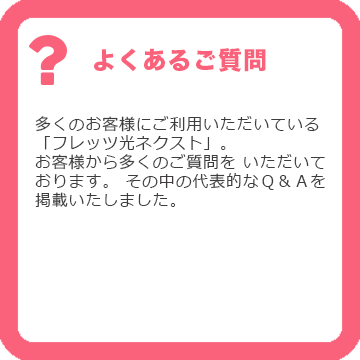
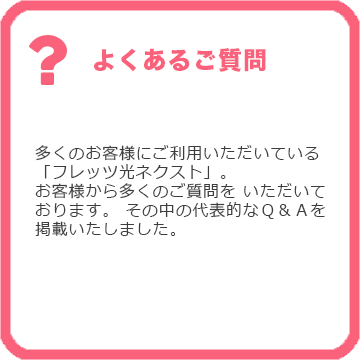
161031修正分

Changed region(s): [[0.0917, 0.3056, 0.9167, 0.6722], [0.0, 0.0, 1.0, 1.0]]

diff --git a/index.html b/index.html
@@ -96,7 +96,7 @@ $(function() {
 </div>
 <div class="content1">
   <div class="main_box">
-  <img src="images/tokuten1.jpg" alt="最大28,000円キャッシュバック！！" class="tokuten01">
+  <img src="images/tokuten2.png" alt="最大28,000円キャッシュバック！！" class="tokuten01">
   <div class="tokuten02">
   <div class="tokuten03">
   <p>平成25年10月1日(火)～平成26年1月31日(金)までに、フレッツ光ネクストをお申込みいただくと<font color="#FF3300">
@@ -113,7 +113,7 @@ $(function() {
     <div class="main_box2">
       <img src="images/cashback01.png" alt="フレッツ光 ＋ひかり電話A（エース）＋プロバイダ OCN「フレッツ」" class="hyou1">
       <img src="images/cashback02.png" alt="フレッツ光 ＋ひかり電話A（エース）" class="hyou2">
-      <img src="images/cashback03.png" alt="フレッツ光）" class="hyou3">
+      <img src="images/cashback03.png" alt="フレッツ光" class="hyou3">
       <p class="main_boxtext"><strong class="color3">【対象者】</strong> 「フレッツ光ネクスト」を新規申込みのお客さま全員がプレゼントの対象となります。</p>
       <p class="main_boxtext"><strong class="color3">【条件】</strong> 平成25年10月1日～平成26年3月31日に「フレッツ光ネクスト」を本ページから新規に申し込みされ、
         平成26年6月30日までに利用開始されていることが条件となります。（「Ｂフレッツ」または、「フレッツ光プレミアム」から、「フレッツ光ネクスト」への変更の場合や、
@@ -139,41 +139,6 @@ $(function() {
     <img src="images/syousai03.png" alt="開通後のお問い合わせ"class="syousai03">
     <img src="images/syousai04.png" alt="サービス内容" class="syousai04">
   </div>
-<!--
-  <div class="main3_boxback">
-    <div class="main3_box1">
-      <img src="images/new/mark1.png" alt="サービス内容" class="mark1">
-      <p class="main_boxtext2">
-        「フレッツ光ネクスト」は、通信料定額で最大200Mbpsの超高速サービスです！
-        お気に入りのプロバイダもそのまま、ご利用いただけます。 また、オプションの「ひかり電話」を併せてご利用することで、今お使いの電話番号がそのまま使えるだけでなく、
-        固定電話相当の音声品質とお得な通話料金、緊急通報等の通話が可能など、様々なサービスをご提供いたします。
-      </p>
-
-    </div>
-    <div class="main3_box2">
-      <img src="images/new/mark2.png" alt="月額利用料／初期費用" class="mark2">
-      <p class="main_boxtext2">
-      	豊富なメニューから、ぴったりのサービスをご選択いただけます。
-        200Mbpsの高速接続がファミリー・ハイスピードタイプなら4,970円、マンション・ハイスピードタイプなら2,790円とお手軽な価格設定です。
-      </p>
-    </div>
-    <div class="clear"></div>
-    <div class="main3_box3">
-      <img src="images/new/mark3.png" alt="よくあるご質問" class="mark3">
-      <p class="main_boxtext2">
-        多くのお客様にご利用いただいている「フレッツ光ネクスト」。
-        お客様から多くのご質問を いただいております。 その中の代表的なＱ＆Ａを掲載いたしました。
-      </p>
-    </div>
-    <div class="main3_box4">
-      <img src="images/new/mark4.png" alt="開通後のお問い合わせ" class="mark4">
-      <p class="main_boxtext2">
-      	通信速度、故障、技術、 パソコンの接続設定などに関するお問い合わせ先など。
-        「フレッツ光ネクスト」なら開通後も24時間365 受付でサポート万全です。( ※開通されたユーザー様向けのお問合せ先となっております。)</p>
-    </div>
-    <div class="clear"></div>
-  </div>
--->
     <div class="btn_box">
       <a href="inquiry/index.html"><img src="images/btn.png" alt="お申込み・お問い合わせ" /></a>
     </div>
@@ -306,9 +271,9 @@ $(function() {
             ご利用の開始のご連絡をいただいた翌月末にお振込みいたします。</p>
         </div>
       </div>
-      <div class="btn_box">
-        <a href="inquiry/index.html"><img src="images/btn.png" alt="お申込み・お問い合わせ" /></a>
-      </div>
+    </div>
+    <div class="btn_box">
+      <a href="inquiry/index.html"><img src="images/btn.png" alt="お申込み・お問い合わせ" /></a>
     </div>
   </div>
 </div>

diff --git a/css/style.css b/css/style.css
@@ -124,11 +124,11 @@ body {
   width:60%;
   margin-left: auto;
   margin-right: auto;
-  margin-bottom:20px;
-  margin-top:20px;
+  margin-bottom:50px;
+  margin-top:50px;
 }
 .hyou1,.hyou2,.hyou3,.hyou4 img{
-  width:60%;
+  width:50%;
   margin:10px;
   text-align: center;
 }
@@ -201,6 +201,7 @@ body {
   max-width:1000px;
   margin-left: auto;
   margin-right: auto;
+  margin-top:50px;
 }
 .main3_box3img{
   display: block;
@@ -214,13 +215,14 @@ body {
   }
 .merittoimg{
   width:90%;
-  margin-bottom: 10px;
+  margin-bottom: 50px;
+  margin-top: 50px;
 }
 table{
   width:90%;
 	margin:auto;
 	margin-top: 10px;
-  margin-bottom:10px;
+  margin-bottom:50px;
 	border-top-width: 1px;
 	border-right-width: 1px;
 	border-bottom-width: 1px;

diff --git a/css/sub.css b/css/sub.css
@@ -53,8 +53,8 @@ h5 {
 	}
 .btn_box img{
   	width:40%;
-    margin-bottom: 30px;
-    margin-top: 30px;
+    margin-bottom: 50px;
+    margin-top: 50px;
 }
 
 #contents_b {
@@ -92,7 +92,8 @@ h5 {
 	width: 864px;
   margin-left: auto;
   margin-right: auto;
-  margin-bottom: 10px;
+  margin-bottom: 50px;
+  margin-top: 50px;
 	}
 ol {
 	font-size: 14px;

diff --git a/css/common.css b/css/common.css
@@ -84,7 +84,7 @@ body {
 #footer {
 	clear:both;
 	font-size: 90%;
-	width: 944px;
+	width: 100%;
 	padding-top: 20px;
 	padding-bottom: 20px;
 	border-top-width: 2px;
